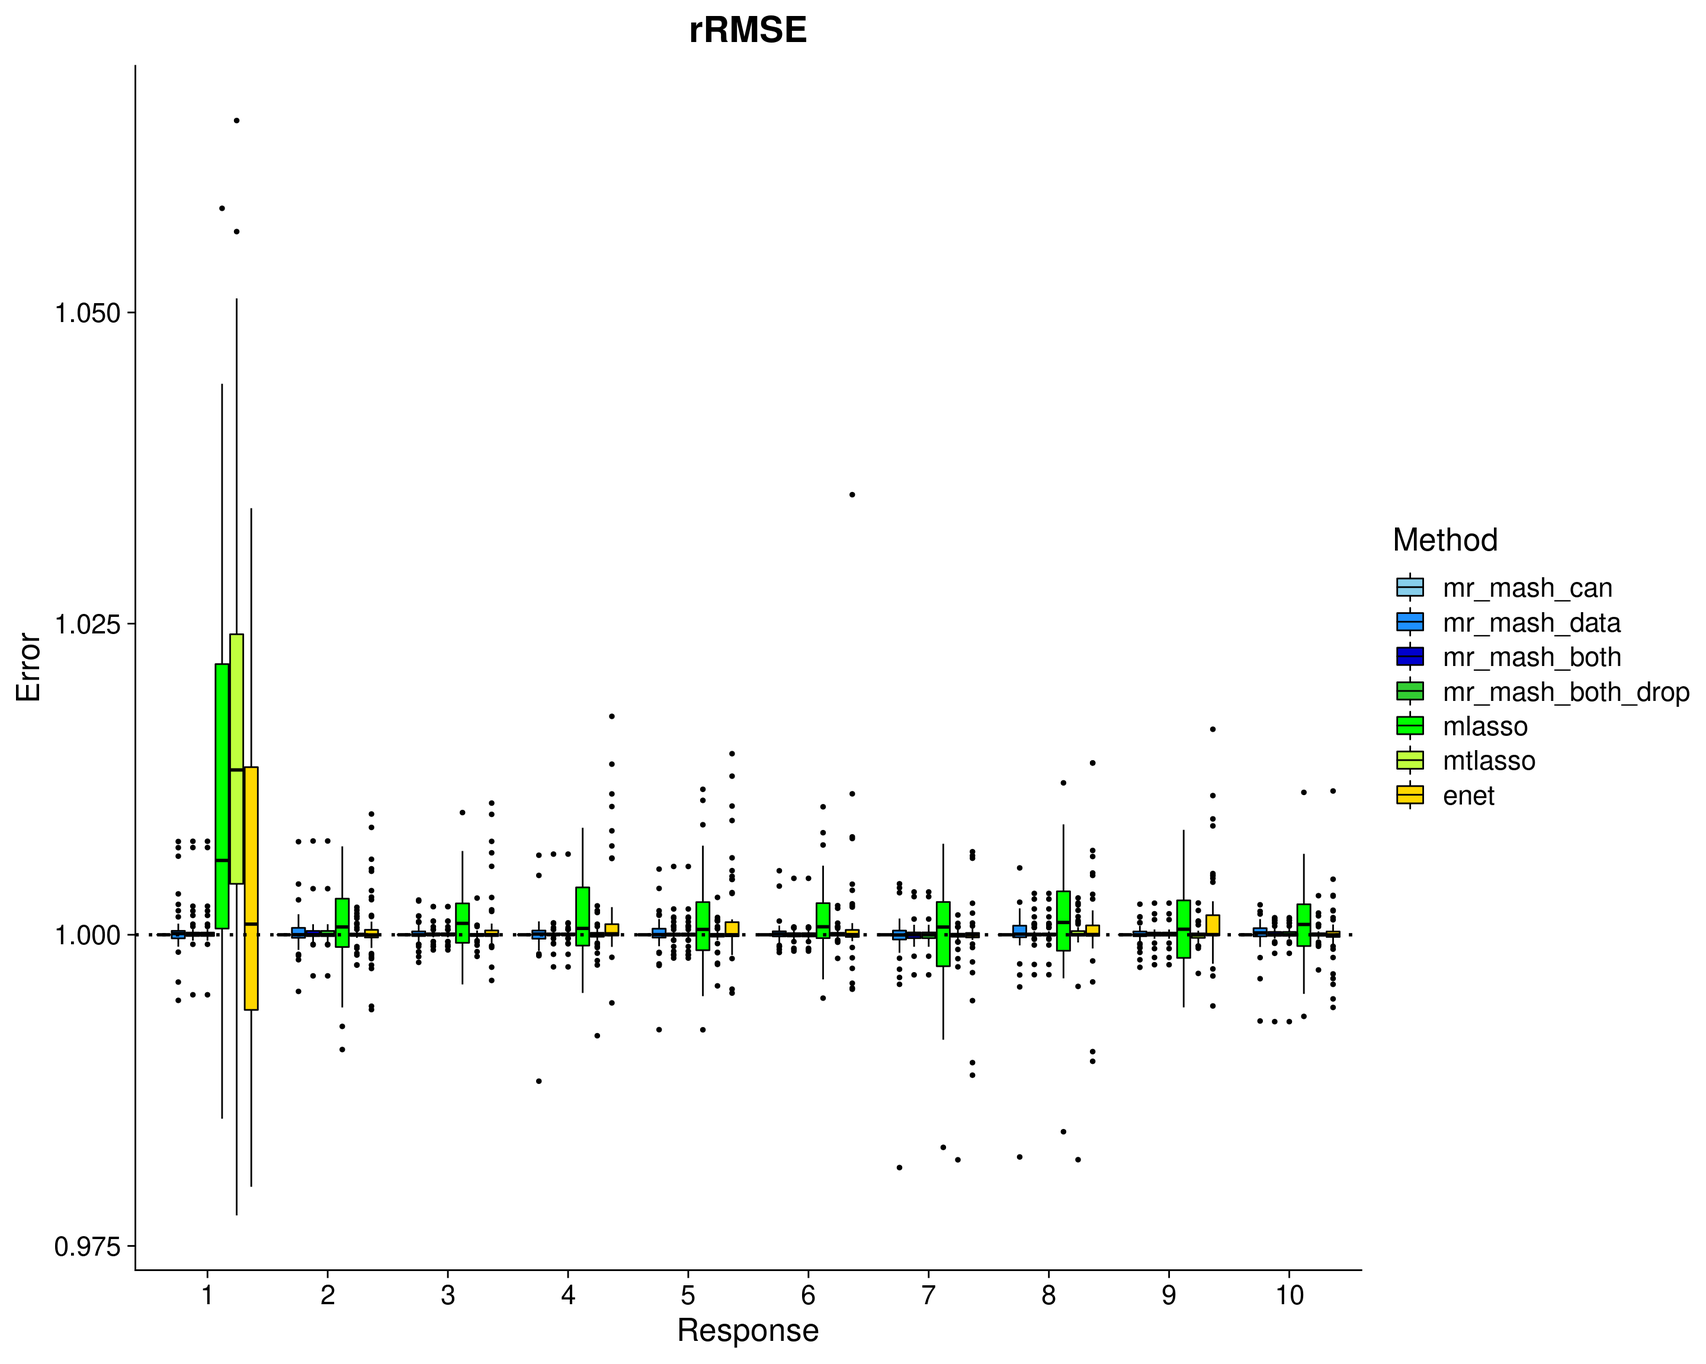
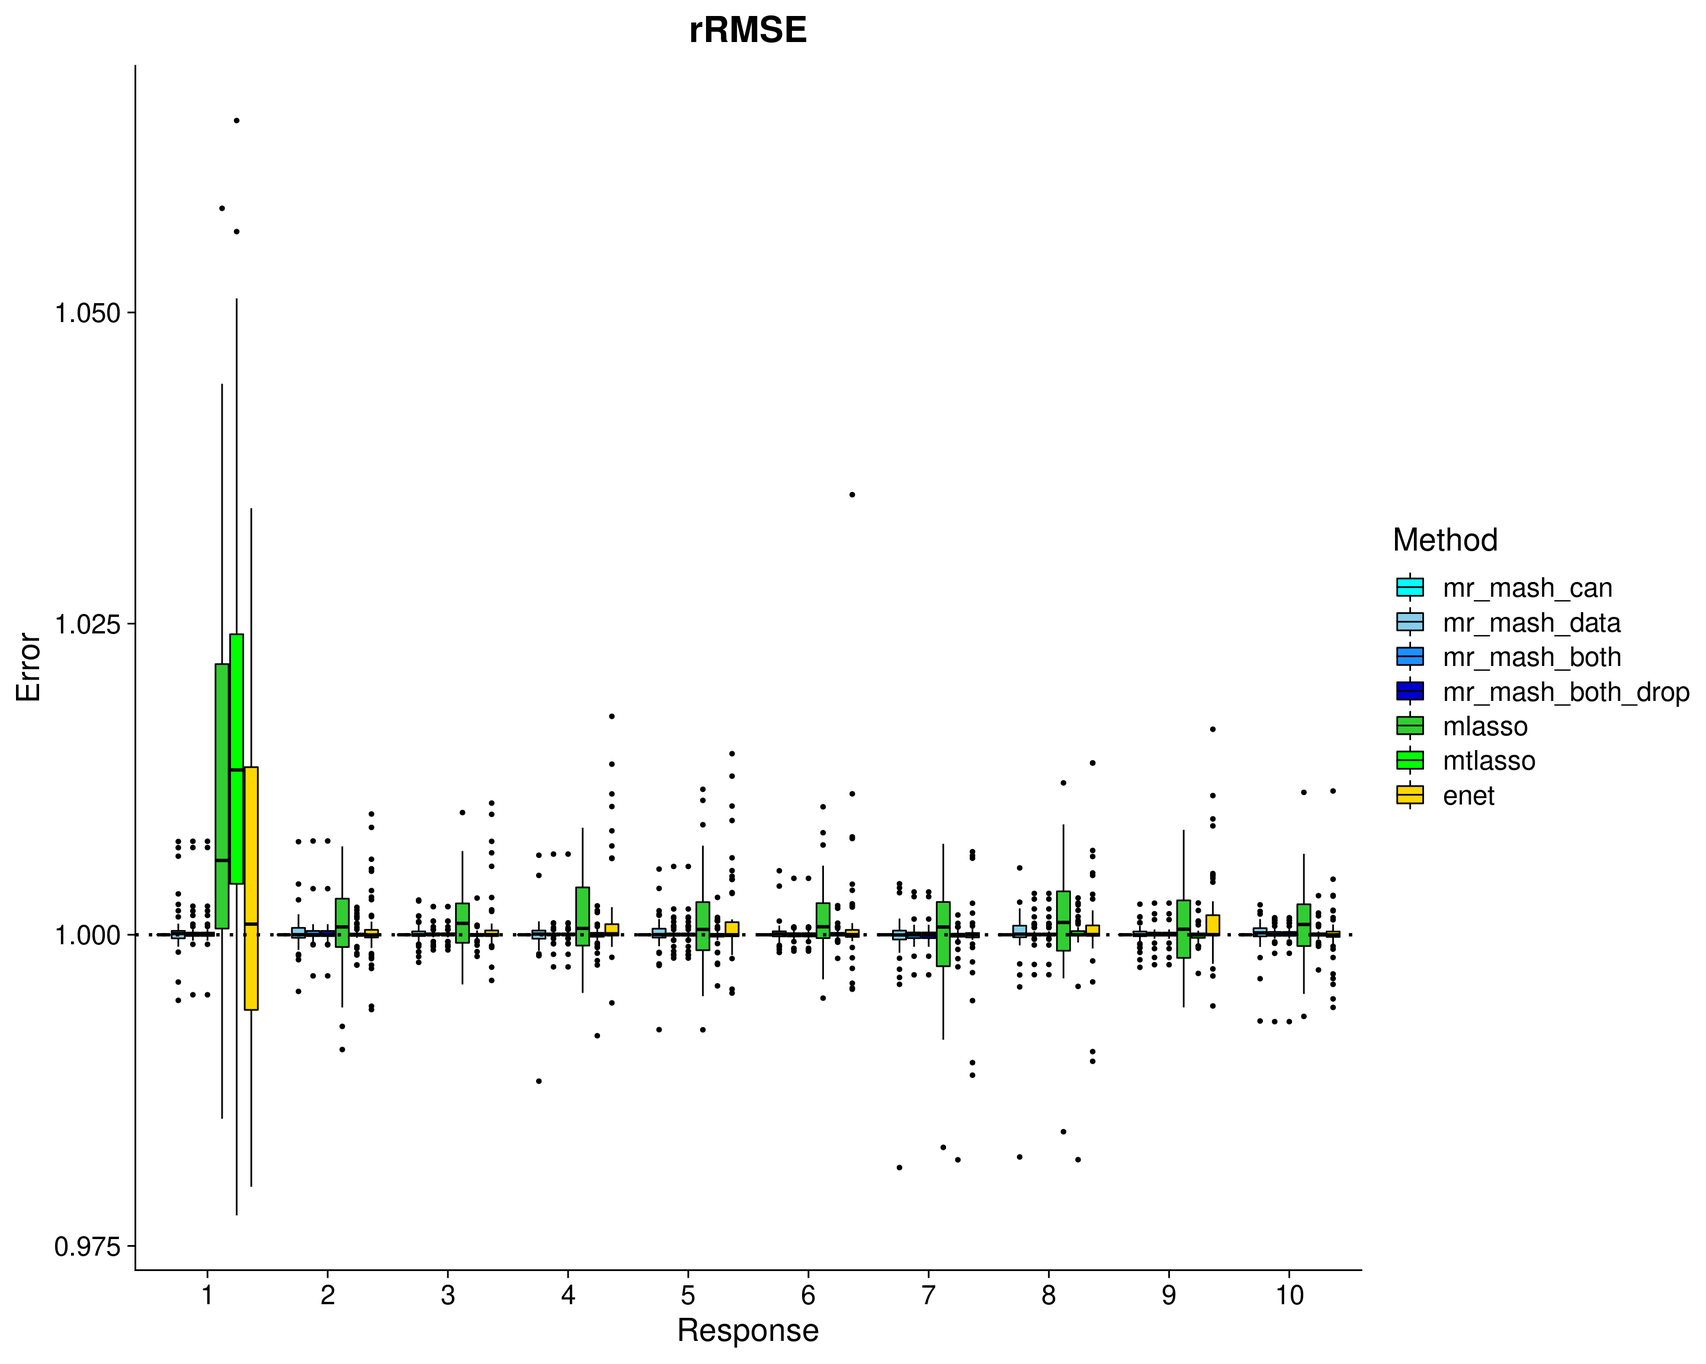
Build site.

diff --git a/docs/results_mvreg_all_genes_prior_GTExrealX_indepV_B_1causalrespr10.html b/docs/results_mvreg_all_genes_prior_GTExrealX_indepV_B_1causalrespr10.html
@@ -344,7 +344,7 @@ div.tocify {
 
 <p>
 <button type="button" class="btn btn-default btn-workflowr btn-workflowr-report" data-toggle="collapse" data-target="#workflowr-report">
-<span class="glyphicon glyphicon-list" aria-hidden="true"></span> workflowr <span class="glyphicon glyphicon-exclamation-sign text-danger" aria-hidden="true"></span>
+<span class="glyphicon glyphicon-list" aria-hidden="true"></span> workflowr <span class="glyphicon glyphicon-ok text-success" aria-hidden="true"></span>
 </button>
 </p>
 <div id="workflowr-report" class="collapse">
@@ -353,7 +353,7 @@ div.tocify {
 <a data-toggle="tab" href="#summary">Summary</a>
 </li>
 <li>
-<a data-toggle="tab" href="#checks"> Checks <span class="glyphicon glyphicon-exclamation-sign text-danger" aria-hidden="true"></span> </a>
+<a data-toggle="tab" href="#checks"> Checks <span class="glyphicon glyphicon-ok text-success" aria-hidden="true"></span> </a>
 </li>
 <li>
 <a data-toggle="tab" href="#versions">Past versions</a>
@@ -365,7 +365,7 @@ div.tocify {
 <strong>Last updated:</strong> 2020-10-22
 </p>
 <p>
-<strong>Checks:</strong> <span class="glyphicon glyphicon-ok text-success" aria-hidden="true"></span> 6 <span class="glyphicon glyphicon-exclamation-sign text-danger" aria-hidden="true"></span> 1
+<strong>Checks:</strong> <span class="glyphicon glyphicon-ok text-success" aria-hidden="true"></span> 7 <span class="glyphicon glyphicon-exclamation-sign text-danger" aria-hidden="true"></span> 0
 </p>
 <p>
 <strong>Knit directory:</strong> <code>mr_mash_test/</code> <span class="glyphicon glyphicon-question-sign" aria-hidden="true" title="This is the local directory in which the code in this file was executed."> </span>
@@ -441,52 +441,28 @@ This reproducible <a href="http://rmarkdown.rstudio.com">R Markdown</a> analysis
 <div class="panel panel-default">
 <div class="panel-heading">
 <p class="panel-title">
-<a data-toggle="collapse" data-parent="#workflowr-checks" href="#strongFilepathsstrongabsolute"> <span class="glyphicon glyphicon-exclamation-sign text-danger" aria-hidden="true"></span> <strong>File paths:</strong> absolute </a>
+<a data-toggle="collapse" data-parent="#workflowr-checks" href="#strongFilepathsstrongrelative"> <span class="glyphicon glyphicon-ok text-success" aria-hidden="true"></span> <strong>File paths:</strong> relative </a>
 </p>
 </div>
-<div id="strongFilepathsstrongabsolute" class="panel-collapse collapse">
+<div id="strongFilepathsstrongrelative" class="panel-collapse collapse">
 <div class="panel-body">
-<p>
-Using absolute paths to the files within your workflowr project makes it difficult for you and others to run your code on a different machine. Change the absolute path(s) below to the suggested relative path(s) to make your code more reproducible.
-</p>
-<table class="table table-condensed table-hover">
-<thead>
-<tr>
-<th style="text-align:left;">
-absolute
-</th>
-<th style="text-align:left;">
-relative
-</th>
-</tr>
-</thead>
-<tbody>
-<tr>
-<td style="text-align:left;">
-/project2/mstephens/fmorgante/mr_mash_test/output/mvreg_all_genes_prior_GTExrealX_indepV_B_1causalrespr10
-</td>
-<td style="text-align:left;">
-output/mvreg_all_genes_prior_GTExrealX_indepV_B_1causalrespr10
-</td>
-</tr>
-</tbody>
-</table>
+<p>Great job! Using relative paths to the files within your workflowr project makes it easier to run your code on other machines.</p>
 </div>
 </div>
 </div>
 <div class="panel panel-default">
 <div class="panel-heading">
 <p class="panel-title">
-<a data-toggle="collapse" data-parent="#workflowr-checks" href="#strongRepositoryversionstrongahrefhttpsgithubcomfmorgantemrmashtesttree9fe619a57826ad8c415923fff66eb026f750b426targetblank9fe619aa"> <span class="glyphicon glyphicon-ok text-success" aria-hidden="true"></span> <strong>Repository version:</strong> <a href="https://github.com/fmorgante/mr_mash_test/tree/9fe619a57826ad8c415923fff66eb026f750b426" target="_blank">9fe619a</a> </a>
+<a data-toggle="collapse" data-parent="#workflowr-checks" href="#strongRepositoryversionstrongahrefhttpsgithubcomfmorgantemrmashtesttree547efa4e2d856e9fff7a7f8d158e615c9e14eae8targetblank547efa4a"> <span class="glyphicon glyphicon-ok text-success" aria-hidden="true"></span> <strong>Repository version:</strong> <a href="https://github.com/fmorgante/mr_mash_test/tree/547efa4e2d856e9fff7a7f8d158e615c9e14eae8" target="_blank">547efa4</a> </a>
 </p>
 </div>
[2 lines of base64/hex data omitted]
 <div class="panel-body">
 <p>
 Great! You are using Git for version control. Tracking code development and connecting the code version to the results is critical for reproducibility.
 </p>
 <p>
-The results in this page were generated with repository version <a href="https://github.com/fmorgante/mr_mash_test/tree/9fe619a57826ad8c415923fff66eb026f750b426" target="_blank">9fe619a</a>. See the <em>Past versions</em> tab to see a history of the changes made to the R Markdown and HTML files.
+The results in this page were generated with repository version <a href="https://github.com/fmorgante/mr_mash_test/tree/547efa4e2d856e9fff7a7f8d158e615c9e14eae8" target="_blank">547efa4</a>. See the <em>Past versions</em> tab to see a history of the changes made to the R Markdown and HTML files.
 </p>
 <p>
 Note that you need to be careful to ensure that all relevant files for the analysis have been committed to Git prior to generating the results (you can use <code>wflow_publish</code> or <code>wflow_git_commit</code>). workflowr only checks the R Markdown file, but you know if there are other scripts or data files that it depends on. Below is the status of the Git repository when the results were generated:
@@ -796,6 +772,40 @@ Message
 Rmd
 </td>
 <td>
+<a href="https://github.com/fmorgante/mr_mash_test/blob/547efa4e2d856e9fff7a7f8d158e615c9e14eae8/analysis/results_mvreg_all_genes_prior_GTExrealX_indepV_B_1causalrespr10.Rmd" target="_blank">547efa4</a>
+</td>
+<td>
+fmorgante
+</td>
+<td>
+2020-10-22
+</td>
+<td>
+Fix a few things
+</td>
+</tr>
+<tr>
+<td>
+html
+</td>
+<td>
+<a href="https://rawcdn.githack.com/fmorgante/mr_mash_test/1f6cf753d37948dd72a53ffebff2b879423cbdad/docs/results_mvreg_all_genes_prior_GTExrealX_indepV_B_1causalrespr10.html" target="_blank">1f6cf75</a>
+</td>
+<td>
+fmorgante
+</td>
+<td>
+2020-10-22
+</td>
+<td>
+Build site.
+</td>
+</tr>
+<tr>
+<td>
+Rmd
+</td>
+<td>
 <a href="https://github.com/fmorgante/mr_mash_test/blob/9fe619a57826ad8c415923fff66eb026f750b426/analysis/results_mvreg_all_genes_prior_GTExrealX_indepV_B_1causalrespr10.Rmd" target="_blank">9fe619a</a>
 </td>
 <td>
@@ -890,9 +900,9 @@ compute_rrmse &lt;- function(dsc_plot, log10_scale=FALSE){
 }
 
 ###Set some quantities used in the following plots
-colors &lt;- c(&quot;skyblue&quot;, &quot;dodgerblue&quot;, &quot;mediumblue&quot;, &quot;limegreen&quot;, &quot;green&quot;, &quot;olivedrab1&quot;, &quot;gold&quot;, &quot;orange&quot;, &quot;red&quot;, &quot;firebrick&quot;, &quot;darkmagenta&quot;, &quot;mediumpurple&quot;)</code></pre>
+colors &lt;- c(&quot;cyan&quot;, &quot;skyblue&quot;, &quot;dodgerblue&quot;, &quot;mediumblue&quot;, &quot;limegreen&quot;, &quot;green&quot;, &quot;gold&quot;, &quot;orange&quot;, &quot;red&quot;, &quot;firebrick&quot;, &quot;darkmagenta&quot;, &quot;mediumpurple&quot;)</code></pre>
 <pre class="r"><code>###Load the dsc results
-dsc_out &lt;- dscquery(&quot;/project2/mstephens/fmorgante/mr_mash_test/output/mvreg_all_genes_prior_GTExrealX_indepV_B_1causalrespr10&quot;, 
+dsc_out &lt;- dscquery(&quot;output/mvreg_all_genes_prior_GTExrealX_indepV_B_1causalrespr10&quot;, 
                     c(&quot;simulate.p_causal&quot;, &quot;simulate.r&quot;, &quot;simulate.pve&quot;, &quot;simulate&quot;, &quot;fit&quot;, &quot;score&quot;, &quot;score.err&quot;, &quot;fit.time&quot;), 
                     groups=&quot;fit: mr_mash_em_can, mr_mash_em_data, mr_mash_em_dataAndcan, mr_mash_em_dataAndcan_dropcomp, mlasso, mtlasso, enet&quot;,
                     verbose=FALSE)
@@ -923,7 +933,7 @@ dsc_out$simulate.V_cor &lt;- NULL</code></pre>
 <li><p>canonical matrices corresponding to different settings of effect sharing/specificity (i.e., singletons, independent, low heterogeneity, medium heterogeneity, high heterogeneity, shared) plus the spike.</p></li>
 <li><p>data-driven matrices estimated as described above plus the spike.</p></li>
 <li><p>both canonical and data-driven matrices plus the spike.</p></li>
-<li><p>both canonical and data-driven matrices plus the spike, dropping components with <span class="math">\(w0 &lt; 1e-8\)</span>.</p></li>
+<li><p>both canonical and data-driven matrices plus the spike, dropping components with <span class="math">\(w_0 &lt; 1e-8\)</span>.</p></li>
 </ul>
 <p>The covariances matrices were scaled by a grid of values computed from the univariate summary statistics as in the <em>mash</em> paper. The posterior mean of the regression coefficients were initialized to the estimates of the group-LASSO. The mixture weights were initialized with the proportion of zero-coefficients from the group-LASSO estimate as the weight on the spike and the proportion of non-zero-coefficients split equally among the remaining components.Convergence was declared when the maximum difference in the ELBO between two successive iterations was smaller than 1e-2.</p>
 <p>Then, responses were predicted on the test data (20% of the data).</p>
@@ -963,6 +973,43 @@ p_rrmse &lt;- ggplot(dsc_plots[which(dsc_plots$score_metric==&quot;scaled_rrmse&
 
 print(p_rrmse)</code></pre>
 <p><img src="figure/results_mvreg_all_genes_prior_GTExrealX_indepV_B_1causalrespr10.Rmd/accuracy%20vs%20others-1.png" width="1440" style="display: block; margin: auto;" /></p>
+<p>
+<button type="button" class="btn btn-default btn-xs btn-workflowr btn-workflowr-fig" data-toggle="collapse" data-target="#fig-no-spaces-accuracy-vs-others-1">
+Past versions of “accuracy vs others-1.png”
+</button>
+</p>
+<div id="fig-no-spaces-accuracy-vs-others-1" class="collapse">
+<div class="table-responsive">
+<table class="table table-condensed table-hover">
+<thead>
+<tr>
+<th>
+Version
+</th>
+<th>
+Author
+</th>
+<th>
+Date
+</th>
+</tr>
+</thead>
+<tbody>
+<tr>
+<td>
+<a href="https://github.com/fmorgante/mr_mash_test/blob/1f6cf753d37948dd72a53ffebff2b879423cbdad/docs/figure/results_mvreg_all_genes_prior_GTExrealX_indepV_B_1causalrespr10.Rmd/accuracy vs others-1.png" target="_blank">1f6cf75</a>
+</td>
+<td>
+fmorgante
+</td>
+<td>
+2020-10-22
+</td>
+</tr>
+</tbody>
+</table>
+</div>
+</div>
 <p>Let’s now remove outliers from the plots to make things a little clearer.</p>
 <pre class="r"><code>p_rrmse_noout &lt;- ggplot(dsc_plots[which(dsc_plots$score_metric==&quot;scaled_rrmse&quot;), ], aes_string(x = &quot;response_fac&quot;, y = &quot;score_value&quot;, fill = &quot;method_fac&quot;)) +
   Ipaper::geom_boxplot2(color = &quot;black&quot;,width.errorbar = 0, width = 0.85) +
@@ -974,6 +1021,43 @@ print(p_rrmse)</code></pre>
 
 print(p_rrmse_noout)</code></pre>
 <p><img src="figure/results_mvreg_all_genes_prior_GTExrealX_indepV_B_1causalrespr10.Rmd/accuracy%20no%20outliers-1.png" width="1440" style="display: block; margin: auto;" /></p>
+<p>
+<button type="button" class="btn btn-default btn-xs btn-workflowr btn-workflowr-fig" data-toggle="collapse" data-target="#fig-no-spaces-accuracy-no-outliers-1">
+Past versions of “accuracy no outliers-1.png”
+</button>
+</p>
+<div id="fig-no-spaces-accuracy-no-outliers-1" class="collapse">
+<div class="table-responsive">
+<table class="table table-condensed table-hover">
+<thead>
+<tr>
+<th>
+Version
+</th>
+<th>
+Author
+</th>
+<th>
+Date
+</th>
+</tr>
+</thead>
+<tbody>
+<tr>
+<td>
+<a href="https://github.com/fmorgante/mr_mash_test/blob/1f6cf753d37948dd72a53ffebff2b879423cbdad/docs/figure/results_mvreg_all_genes_prior_GTExrealX_indepV_B_1causalrespr10.Rmd/accuracy no outliers-1.png" target="_blank">1f6cf75</a>
+</td>
+<td>
+fmorgante
+</td>
+<td>
+2020-10-22
+</td>
+</tr>
+</tbody>
+</table>
+</div>
+</div>
 <p>Here, we look at the elapsed time (<span class="math">\(log_2\)</span> seconds) of each method. Note that the <em>mr.mash</em> run time does not include the run time of group-LASSO (but should be considered since we used it to initialize <em>mr.mash</em>).</p>
 <pre class="r"><code>dsc_plots_time &lt;- dsc_plots[which(dsc_plots$response==1 &amp; dsc_plots$score_metric==&quot;scaled_rrmse&quot;), 
                           -which(colnames(dsc_plots) %in% c(&quot;score_metric&quot;, &quot;score_value&quot;, &quot;response&quot;))]
@@ -990,6 +1074,43 @@ p_time &lt;- ggplot(dsc_plots_time, aes_string(x = &quot;method_fac&quot;, y = &
 
 print(p_time)</code></pre>
 <p><img src="figure/results_mvreg_all_genes_prior_GTExrealX_indepV_B_1causalrespr10.Rmd/run%20time-1.png" width="1440" style="display: block; margin: auto;" /></p>
+<p>
+<button type="button" class="btn btn-default btn-xs btn-workflowr btn-workflowr-fig" data-toggle="collapse" data-target="#fig-no-spaces-run-time-1">
+Past versions of “run time-1.png”
+</button>
+</p>
+<div id="fig-no-spaces-run-time-1" class="collapse">
+<div class="table-responsive">
+<table class="table table-condensed table-hover">
+<thead>
+<tr>
+<th>
+Version
+</th>
+<th>
+Author
+</th>
+<th>
+Date
+</th>
+</tr>
+</thead>
+<tbody>
+<tr>
+<td>
+<a href="https://github.com/fmorgante/mr_mash_test/blob/1f6cf753d37948dd72a53ffebff2b879423cbdad/docs/figure/results_mvreg_all_genes_prior_GTExrealX_indepV_B_1causalrespr10.Rmd/run time-1.png" target="_blank">1f6cf75</a>
+</td>
+<td>
+fmorgante
+</td>
+<td>
+2020-10-22
+</td>
+</tr>
+</tbody>
+</table>
+</div>
+</div>
 <p>In summary, all the methods perform pretty similarly. Any flavor of <em>mr.mash</em> is on the lower side of the error. Using data-driven matrices or canonical is equivalent in this situation.</p>
 <br>
 <p>
@@ -1024,33 +1145,32 @@ other attached packages:
 loaded via a namespace (and not attached):
  [1] pkgload_1.1.0      jsonlite_1.6       foreach_1.4.4     
  [4] Ipaper_0.1.5       assertthat_0.2.1   sp_1.3-1          
- [7] highr_0.7          cellranger_1.1.0   remotes_2.1.0     
-[10] yaml_2.2.1         progress_1.2.2     sessioninfo_1.1.1 
-[13] pillar_1.4.6       backports_1.1.10   lattice_0.20-38   
-[16] glue_1.4.2         reticulate_1.10    digest_0.6.25     
-[19] RColorBrewer_1.1-2 promises_1.0.1     colorspace_1.4-1  
-[22] htmltools_0.3.6    httpuv_1.4.5       Matrix_1.2-15     
-[25] plyr_1.8.6         clipr_0.4.1        pkgconfig_2.0.3   
-[28] purrr_0.3.3        processx_3.4.4     whisker_0.3-2     
-[31] openxlsx_4.1.0     later_0.7.5        git2r_0.26.1      
-[34] tibble_3.0.4       farver_2.0.3       ellipsis_0.3.1    
-[37] withr_2.3.0        repr_0.17          cli_2.1.0         
-[40] crayon_1.3.4       readxl_1.1.0       memoise_1.1.0     
-[43] evaluate_0.14      ps_1.4.0           fs_1.3.1          
-[46] fansi_0.4.1        doParallel_1.0.14  xml2_1.2.0        
-[49] pkgbuild_1.1.0     tools_3.5.1        data.table_1.12.8 
-[52] prettyunits_1.1.1  hms_0.5.3          matrixStats_0.57.0
-[55] lifecycle_0.2.0    stringr_1.4.0      munsell_0.5.0     
-[58] zip_1.0.0          callr_3.5.1        compiler_3.5.1    
-[61] rlang_0.4.8        grid_3.5.1         rstudioapi_0.11   
-[64] iterators_1.0.10   base64enc_0.1-3    labeling_0.3      
-[67] rmarkdown_1.10     boot_1.3-20        testthat_2.3.2    
-[70] gtable_0.3.0       codetools_0.2-15   reshape2_1.4.4    
-[73] R6_2.4.1           lubridate_1.7.4    knitr_1.20        
-[76] dplyr_0.8.0.1      workflowr_1.6.2    rprojroot_1.3-2   
-[79] desc_1.2.0         stringi_1.4.6      parallel_3.5.1    
-[82] IRdisplay_0.6.1    Rcpp_1.0.5         vctrs_0.3.4       
-[85] tidyselect_0.2.5  </code></pre>
+ [7] cellranger_1.1.0   yaml_2.2.1         remotes_2.1.0     
+[10] progress_1.2.2     sessioninfo_1.1.1  pillar_1.4.6      
+[13] backports_1.1.10   lattice_0.20-38    glue_1.4.2        
+[16] reticulate_1.10    digest_0.6.25      RColorBrewer_1.1-2
+[19] promises_1.0.1     colorspace_1.4-1   htmltools_0.3.6   
+[22] httpuv_1.4.5       Matrix_1.2-15      plyr_1.8.6        
+[25] clipr_0.4.1        pkgconfig_2.0.3    purrr_0.3.3       
+[28] processx_3.4.4     whisker_0.3-2      openxlsx_4.1.0    
+[31] later_0.7.5        git2r_0.26.1       tibble_3.0.4      
+[34] farver_2.0.3       ellipsis_0.3.1     withr_2.3.0       
+[37] repr_0.17          cli_2.1.0          crayon_1.3.4      
+[40] readxl_1.1.0       memoise_1.1.0      evaluate_0.14     
+[43] ps_1.4.0           fs_1.3.1           fansi_0.4.1       
+[46] doParallel_1.0.14  xml2_1.2.0         pkgbuild_1.1.0    
+[49] tools_3.5.1        data.table_1.12.8  prettyunits_1.1.1 
+[52] hms_0.5.3          matrixStats_0.57.0 lifecycle_0.2.0   
+[55] stringr_1.4.0      munsell_0.5.0      zip_1.0.0         
+[58] callr_3.5.1        compiler_3.5.1     rlang_0.4.8       
+[61] grid_3.5.1         rstudioapi_0.11    iterators_1.0.10  
+[64] base64enc_0.1-3    labeling_0.3       rmarkdown_1.10    
+[67] boot_1.3-20        testthat_2.3.2     gtable_0.3.0      
+[70] codetools_0.2-15   reshape2_1.4.4     R6_2.4.1          
+[73] lubridate_1.7.4    knitr_1.20         dplyr_0.8.0.1     
+[76] workflowr_1.6.2    rprojroot_1.3-2    desc_1.2.0        
+[79] stringi_1.4.6      parallel_3.5.1     IRdisplay_0.6.1   
+[82] Rcpp_1.0.5         vctrs_0.3.4        tidyselect_0.2.5  </code></pre>
 </div>
 </div>
 

diff --git a/docs/index.html b/docs/index.html
@@ -291,16 +291,16 @@ This reproducible <a href="http://rmarkdown.rstudio.com">R Markdown</a> analysis
 <div class="panel panel-default">
 <div class="panel-heading">
 <p class="panel-title">
-<a data-toggle="collapse" data-parent="#workflowr-checks" href="#strongRepositoryversionstrongahrefhttpsgithubcomfmorgantemrmashtesttree9fe619a57826ad8c415923fff66eb026f750b426targetblank9fe619aa"> <span class="glyphicon glyphicon-ok text-success" aria-hidden="true"></span> <strong>Repository version:</strong> <a href="https://github.com/fmorgante/mr_mash_test/tree/9fe619a57826ad8c415923fff66eb026f750b426" target="_blank">9fe619a</a> </a>
+<a data-toggle="collapse" data-parent="#workflowr-checks" href="#strongRepositoryversionstrongahrefhttpsgithubcomfmorgantemrmashtesttree547efa4e2d856e9fff7a7f8d158e615c9e14eae8targetblank547efa4a"> <span class="glyphicon glyphicon-ok text-success" aria-hidden="true"></span> <strong>Repository version:</strong> <a href="https://github.com/fmorgante/mr_mash_test/tree/547efa4e2d856e9fff7a7f8d158e615c9e14eae8" target="_blank">547efa4</a> </a>
 </p>
 </div>
[2 lines of base64/hex data omitted]
 <div class="panel-body">
 <p>
 Great! You are using Git for version control. Tracking code development and connecting the code version to the results is critical for reproducibility.
 </p>
 <p>
-The results in this page were generated with repository version <a href="https://github.com/fmorgante/mr_mash_test/tree/9fe619a57826ad8c415923fff66eb026f750b426" target="_blank">9fe619a</a>. See the <em>Past versions</em> tab to see a history of the changes made to the R Markdown and HTML files.
+The results in this page were generated with repository version <a href="https://github.com/fmorgante/mr_mash_test/tree/547efa4e2d856e9fff7a7f8d158e615c9e14eae8" target="_blank">547efa4</a>. See the <em>Past versions</em> tab to see a history of the changes made to the R Markdown and HTML files.
 </p>
 <p>
 Note that you need to be careful to ensure that all relevant files for the analysis have been committed to Git prior to generating the results (you can use <code>wflow_publish</code> or <code>wflow_git_commit</code>). workflowr only checks the R Markdown file, but you know if there are other scripts or data files that it depends on. Below is the status of the Git repository when the results were generated:
@@ -605,6 +605,23 @@ Message
 </tr>
 </thead>
 <tbody>
+<tr>
+<td>
+html
+</td>
+<td>
+<a href="https://rawcdn.githack.com/fmorgante/mr_mash_test/1f6cf753d37948dd72a53ffebff2b879423cbdad/docs/index.html" target="_blank">1f6cf75</a>
+</td>
+<td>
+fmorgante
+</td>
+<td>
+2020-10-22
+</td>
+<td>
+Build site.
+</td>
+</tr>
 <tr>
 <td>
 Rmd
